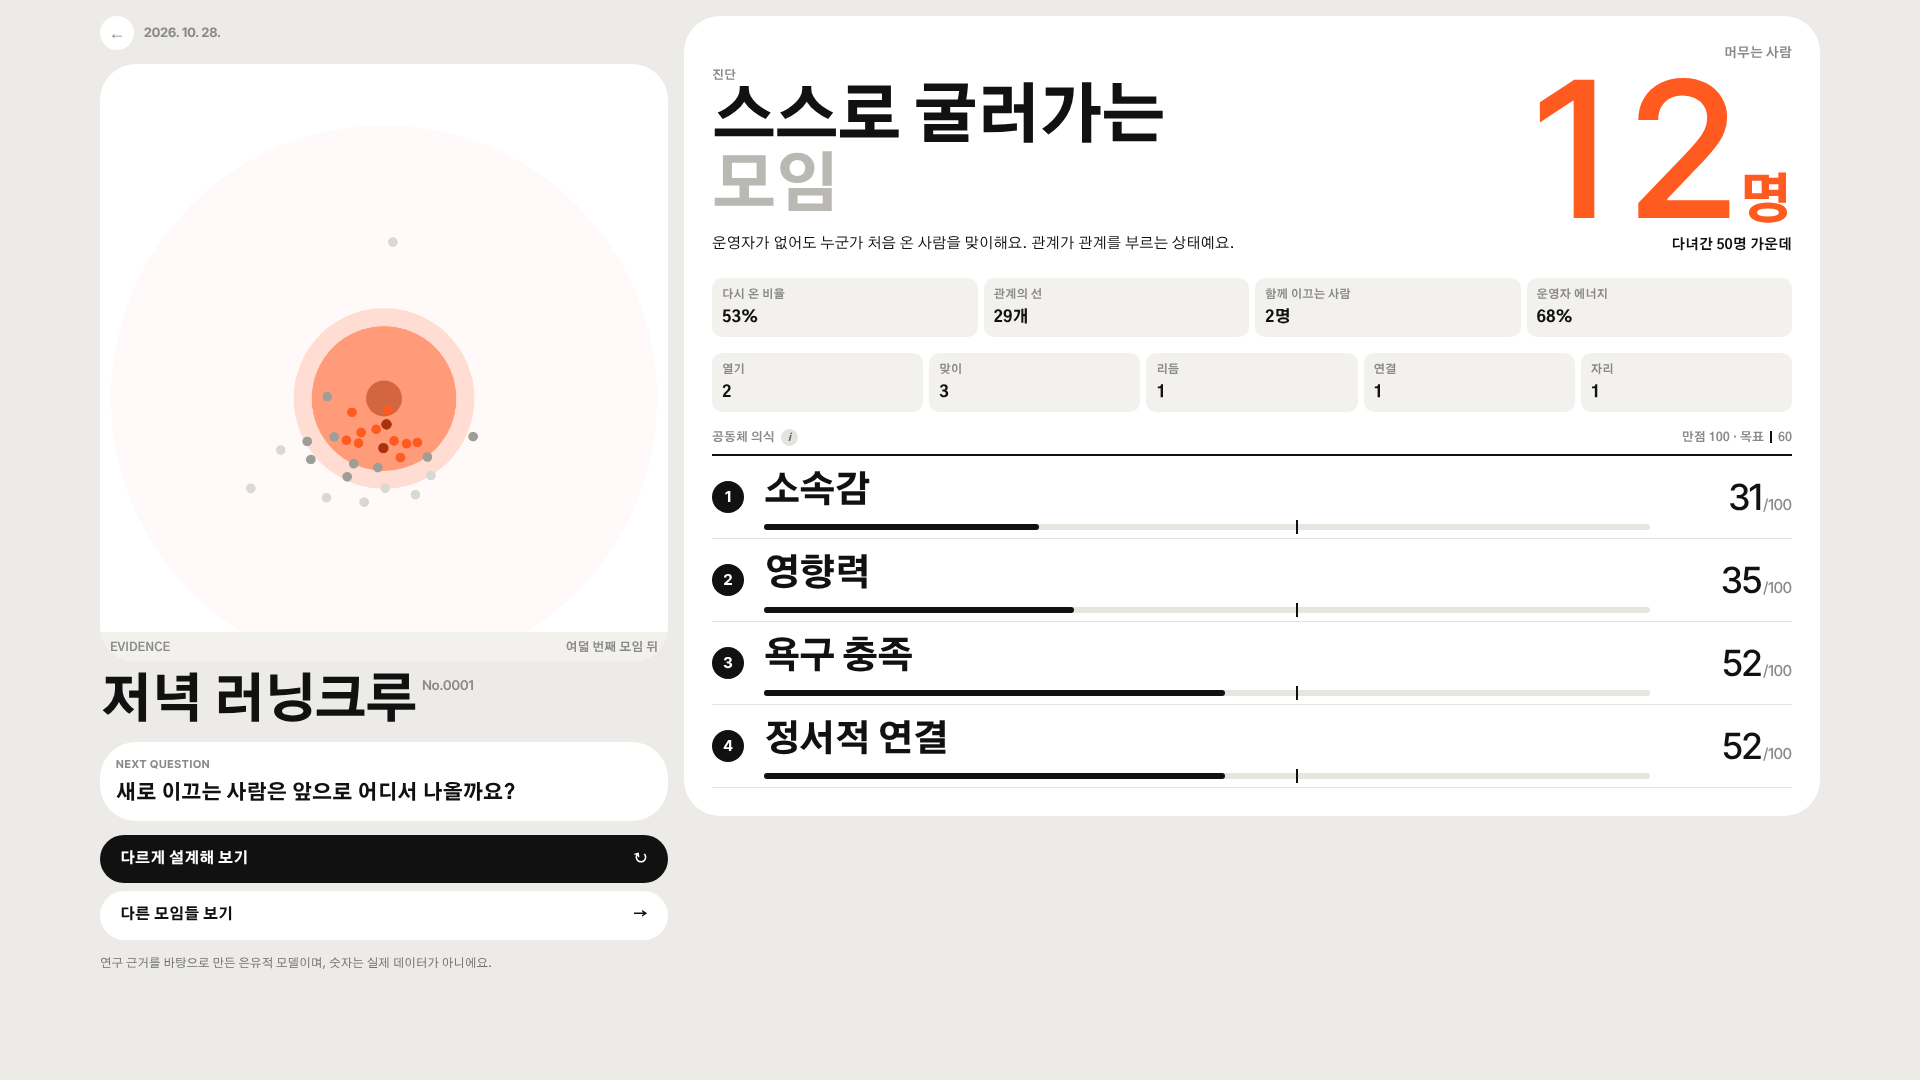
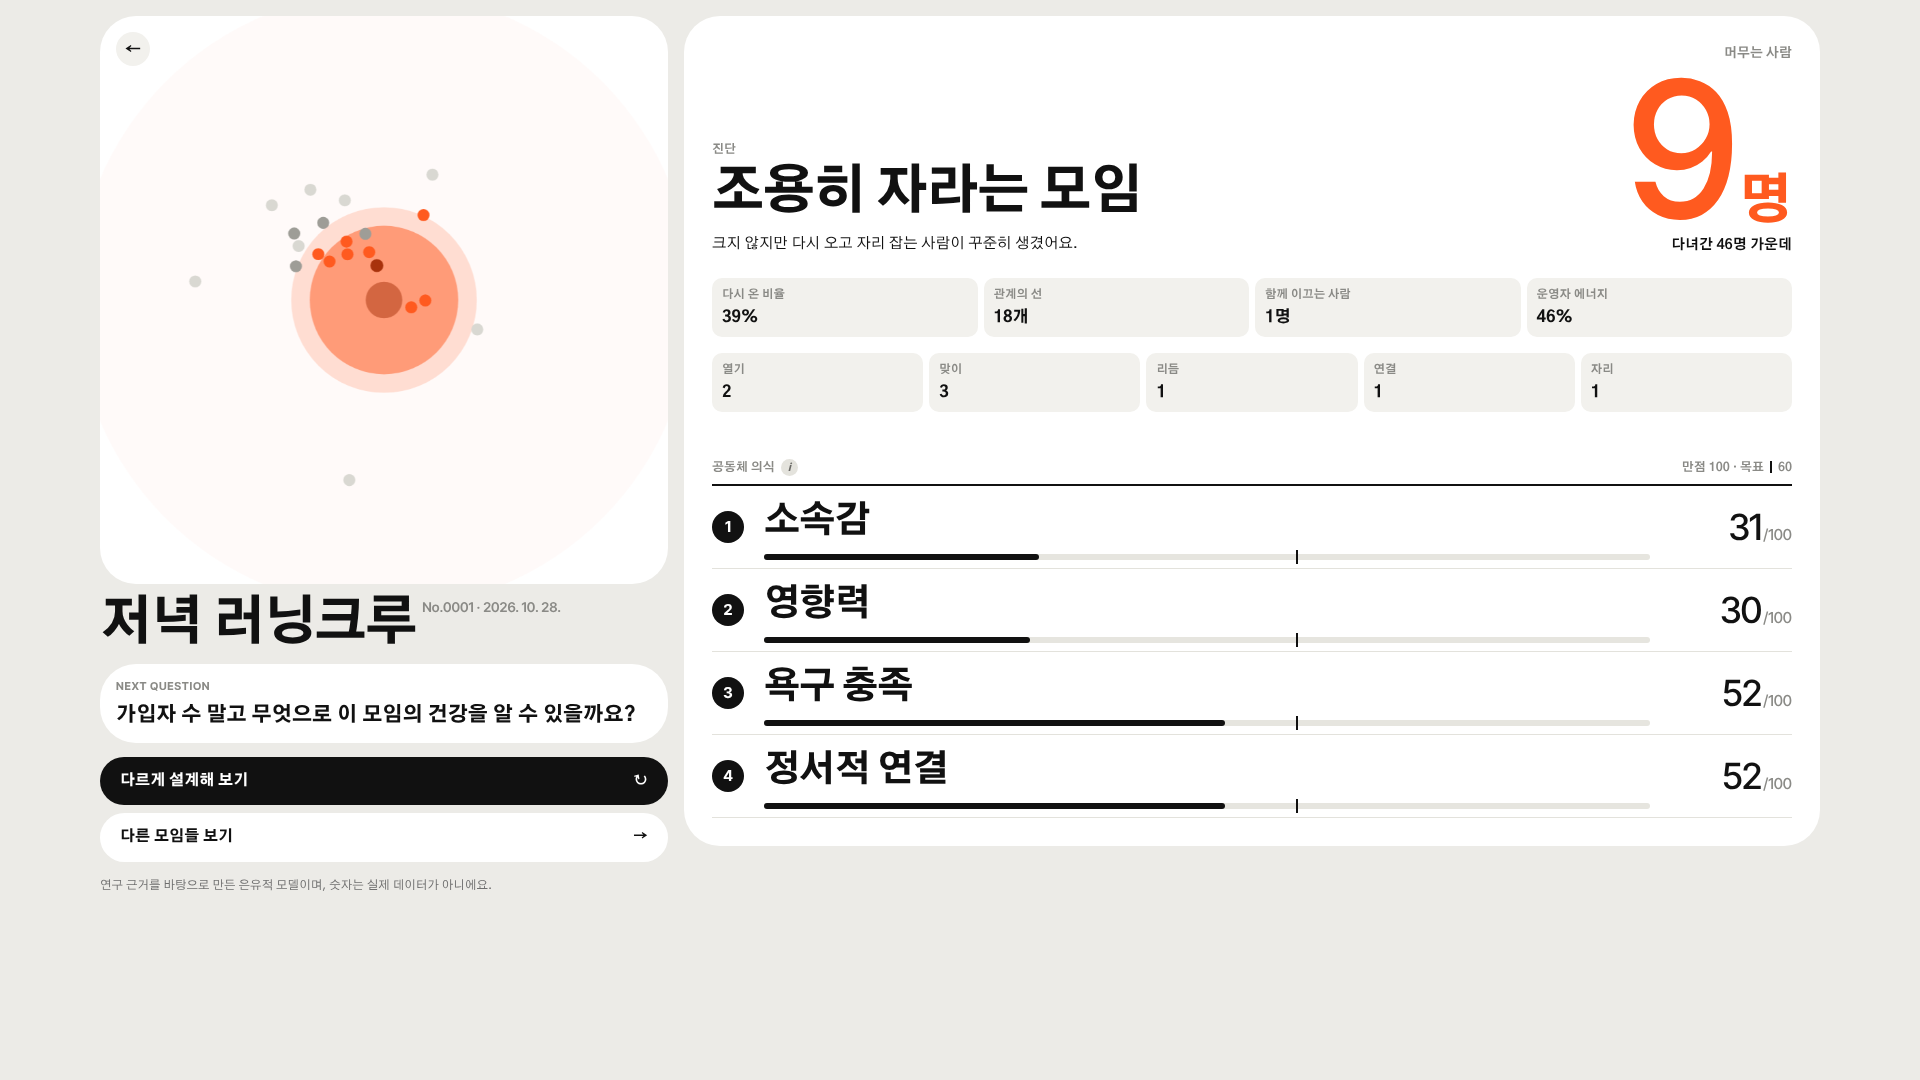
게임 v2.3 시안: 결과 화면 정렬과 여백 다듬기
Claude-Session: https://claude.ai/code/session_01SaCvLutmawHZS3kxPWYxw7

diff --git a/thesis/game/moim.v07.src.html b/thesis/game/moim.v07.src.html
@@ -635,6 +635,14 @@ body{background:var(--page)}
 .track s{position:absolute;inset:0 auto 0 0;border-radius:3px;background:var(--ink);text-decoration:none}
 .mm3 .r.ok .track s{background:var(--accent)}
 .track u{position:absolute;top:-4px;width:2px;height:14px;background:var(--ink);text-decoration:none}
+
+/* ───────── v2.3 결과 다듬기 ───────── */
+.c3-l .photo2{position:relative;aspect-ratio:1}
+.c3-l .photo2 img{width:100%;height:100%;object-fit:contain}
+.c3-l .photo2 .back{position:absolute;left:16px;top:16px;z-index:1;background:var(--cell)}
+.c3-l h1.bigt sup{white-space:nowrap}
+.one{font-weight:800;font-size:clamp(34px,3.2vw,52px);line-height:1.12;letter-spacing:-.03em;margin-top:6px}
+.c3-r .mm3{margin-top:30px}
 @media (prefers-reduced-motion:reduce){*{transition:none!important;animation:none!important}}
 </style>
 
@@ -1131,7 +1139,10 @@ function levelUp(){
 }
 function finish(){
   if(!st)return;
-  try{st.photo=canvas.toDataURL('image/png');}catch(e){st.photo='';}
+  try{const g=st.geo||{cx:canvas.width/2,cy:canvas.height/2,S:Math.min(canvas.width,canvas.height)/2};
+    const side=Math.round(Math.min(canvas.width,2*Math.min(g.cy,canvas.height-g.cy),2*Math.min(g.cx,canvas.width-g.cx))),c=document.createElement('canvas');c.width=c.height=side;
+    const sx=clamp(g.cx-side/2,0,canvas.width-side),sy=clamp(g.cy-side/2,0,canvas.height-side);
+    c.getContext('2d').drawImage(canvas,sx,sy,side,side,0,0,side,side);st.photo=c.toDataURL('image/png');}catch(e){st.photo='';}
   st.result=summary();st.phase='report';
   lastRec=st.result;savePlay(st.result);
   render();
@@ -1146,6 +1157,7 @@ function loop(){
   if(!st||!canvas||!document.body.contains(canvas))return;
   sizeCanvas();
   const d=window.devicePixelRatio||1,W=canvas.width,H=canvas.height,ob=document.getElementById('ovbar'),top=ob?(ob.offsetTop+ob.offsetHeight)*d:0,AH=H-top,S=Math.min(W,AH)/2*.86,cx=W/2,cy=top+AH/2;
+  st.geo={cx,cy,S};
   ctx.clearRect(0,0,W,H);
   // 구역: 검은 실선 동심원
   const B=[.86,.665,.48,.305,.09];
@@ -1197,9 +1209,8 @@ function renderReport(){
   const GOAL=60;
   app.innerHTML=`<section class="case3" style="--accent:${TPAL[r.type].dark};--accent-bg:${TPAL[r.type].bg}">
     <div class="c3-l">
-      <span class="no"><button class="back" id="home2" aria-label="처음 화면으로">←</button>${new Date(r.t).toLocaleDateString('ko-KR')}</span>
-      <div class="photo2">${st.photo?`<img src="${st.photo}" alt="여덟 번째 모임이 끝난 뒤 모임의 모습">`:''}<div class="cap"><span>EVIDENCE</span><span>여덟 번째 모임 뒤</span></div></div>
-      <h1 class="bigt">${T.name}<sup>No.${caseNo}</sup></h1>
+      <div class="photo2"><button class="back" id="home2" aria-label="처음 화면으로">←</button>${st.photo?`<img src="${st.photo}" alt="여덟 번째 모임이 끝난 뒤 모임의 모습">`:''}</div>
+      <h1 class="bigt">${T.name}<sup>No.${caseNo} · ${new Date(r.t).toLocaleDateString('ko-KR')}</sup></h1>
       <div class="q2"><small>NEXT QUESTION</small><b>${V.q}</b></div>
       ${better!==null?`<div class="cell"><small>다른 모임과 비교</small><p>지금까지 만들어진 모임 ${real.length}개 중, 머무는 사람이 이 모임보다 적은 모임은 ${better}%예요.</p></div>`:''}
       <div class="r-actions"><button class="btn" id="again"><span>다르게 설계해 보기</span><span>↻</span></button><button class="btn ghost" id="home"><span>다른 모임들 보기</span><span>→</span></button></div>
@@ -1207,7 +1218,7 @@ function renderReport(){
     </div>
     <div class="c3-r">
       <div class="diag">
-        <div><small class="lbl">진단</small><h2 class="two">${VSPLIT[r.verdict][0]}<span>${VSPLIT[r.verdict][1]}</span></h2><p>${V.d}</p></div>
+        <div><small class="lbl">진단</small><h2 class="one">${V.t}</h2><p>${V.d}</p></div>
         <div class="big2"><small>머무는 사람</small><b class="hero-n">${r.rooted}<em>명</em></b><span>다녀간 ${r.total}명 가운데</span></div>
       </div>
       <div class="cgrid c2-cells">

diff --git a/thesis/26-game-prototype.md b/thesis/26-game-prototype.md
@@ -177,3 +177,6 @@
 - 2열: 왼쪽 = 날짜·모임 그림 → 모임 이름 No. → 다음 질문 → 비교 → 버튼 / 오른쪽 = 진단(두 톤 결과 유형 + 설명) + 머무는 사람 큰 숫자 → 지표 칸 → 스킬 칸 → 공동체 의식
 - 공동체 의식: 번호 1~4, 점수 옆 /100, 막대 위 목표선 60(게임에서 정한 기준, (i)에 명시), 목표 이상이면 키 컬러
 - 확인할 점: 공동체 의식 점수는 설계 값으로만 계산해서 "스스로 굴러가는 모임"인데도 네 요소가 모두 목표 아래로 나올 수 있음 → 결과(재방문율·관계 선·이끄는 사람)를 반영하도록 계산을 바꿀지 결정 필요
+
+## v2.3 시안 (2026-10-28)
+- 결과 화면: EVIDENCE 줄 삭제, 모임 그림은 원의 가운데를 기준으로 정사각형으로 잘라 상자 한가운데에, 왼쪽 그림 상자와 오른쪽 패널의 위쪽 맞춤(뒤로 버튼은 그림 상자 안 왼쪽 위, 날짜는 이름 옆 위첨자), 진단은 한 줄·같은 글꼴, 공동체 의식 위 여백 30px
